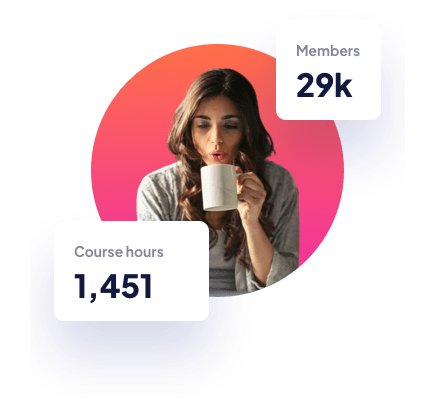
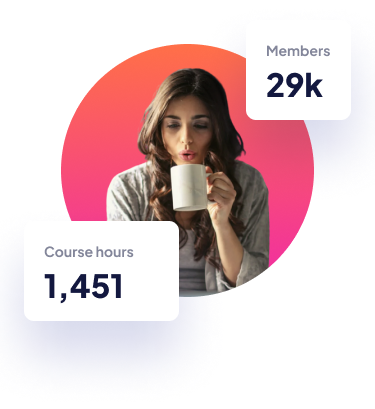
Пересохранены фото из макеты

diff --git a/index.html b/index.html
@@ -33,37 +33,34 @@
 
   <!-- main start-->
   <main>
+
     <div class="wrapper">
+      <div class="main">
 
-      <!-- main__pic start-->
-      <div class="main__pic-desktop">
-        <img src="./assets/image-hero-desktop.png" alt="Main-pic" class="main__pic-desktop">
-      </div>
-      <div class="main__pic-tablet">
-        <img src="./assets/image-hero-tablet.png" alt="Main-pic" class="main__pic-tablet">
-      </div>
-      <div class="main__pic-mobile">
-        <img src="./assets/image-hero-mobile.png" alt="Main-pic" class="main__pic-mobile">
-      </div>
-      <!-- main__pic end-->
+        <div class="content">
+          <div class="content__title">
+            <h1 class="content__title-text"> 
+              Maximize skill, minimize budget
+            </h1>
+          </div>
+          <div class="content__inform">
+            <p class="content__inform-text">
+              Our modern courses across a range of in-demand skills will give you the 
+              knowledge you need to live the life you want.
+            </p>
+          </div>
+          <div class="content__button buttons">
+            <a href="#!" class="content__button-link"> Get Started</a>
+          </div>
+        </div>
 
-      <div class="content">
-        <div class="content__title">
-          <h1 class="content__title-text"> 
-            Maximize skill, minimize budget
-          </h1>
+        <div class="main__pic">
+          <img src="/assets/image-hero-desktop.png" alt="">
         </div>
-        <div class="content__inform">
-          <p class="content__inform-text">
-            Our modern courses across a range of in-demand skills will give you the 
-            knowledge you need to live the life you want.
-          </p>
-        </div>
-        <div class="content__button buttons">
-          <a href="#!" class="content__button-link"> Get Started</a>
-        </div>
+        
       </div>
     </div>
+    
   </main>
 
   <!-- main end-->

diff --git a/css/style.css b/css/style.css
@@ -14,7 +14,8 @@ a {
 
 .wrapper {
     margin: 0 auto;
-    max-width: 1100px;
+    padding: 0 15px;
+    max-width: 1130px;
     position: relative;
 }
 
@@ -31,7 +32,7 @@ a {
 
 /*main__pic start*/
 
-.main__pic-desktop {
+/*.main__pic-desktop {
     position: absolute;
     right: -250px;
     top: -200px;
@@ -44,7 +45,7 @@ a {
 
 .main__pic-mobile {
     display: none;
-}
+}*/
 
 /*main__pic start*/
 
@@ -74,8 +75,12 @@ header {
 
 /* main start */
 
-main {
+.main {
     margin-bottom: 250px;
+    display: flex;
+    justify-content: space-between;
+    align-items: center;
+    height: 359px;
 }
 
 .content {
@@ -84,6 +89,8 @@ main {
     align-items: flex-start;
     justify-content: space-between;
     max-width: 460px;
+    max-height: 100%;
+    margin-right: 160px;
 }
 
 .content__title {
@@ -117,6 +124,16 @@ main {
 .content__button:hover, .content__button:active, .content__button:focus {
     background: linear-gradient(0deg, rgba(255, 255, 255, 0.5), rgba(255, 255, 255, 0.5)), linear-gradient(180deg, #FF6F48 0%, #F02AA6 100%);
 }
+
+.main__pic {
+    
+}
+
+.main__pic > img {
+    width: 992px;
+    height: 964px;
+}
+
 /* main end */
 
 
@@ -318,6 +335,21 @@ footer {
         max-width: 343px;
     }
 
+    header {
+        height: 80px;
+        margin-bottom: 22px;
+    }
+
+    .header {
+        padding: 16px 0;
+    }
+    
+    main {
+        min-height: 632px;
+        position: relative;
+        margin-bottom: 66px;
+    }
+
     .main__pic-desktop {
         display: none;
     }
@@ -328,6 +360,14 @@ footer {
 
     .main__pic-mobile {
         display: block;
-        vertical-align: middle;
+        position: absolute;
+        right: 0;
+        bottom: 0;
+        z-index: 2;
     }
+
+    .content {
+        
+    }
+
 }
